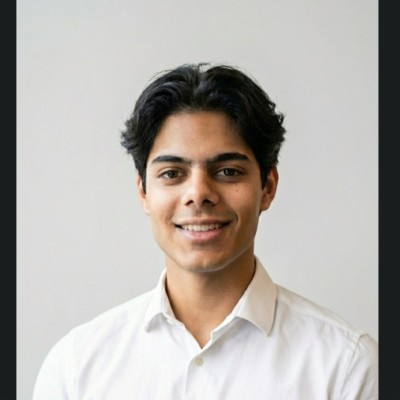
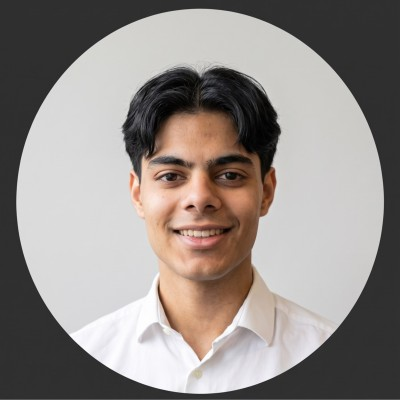
Refresh homepage examples, founder profile and feedback

diff --git a/index.html b/index.html
@@ -217,112 +217,63 @@
             </div>
         </section>
 
-        <section id="recently-added" class="px-6 lg:px-10 pb-16 bg-gray-50">
-            <div class="max-w-[1720px] mx-auto border-t border-gray-200 pt-10">
-                <div class="flex flex-col md:flex-row md:items-end md:justify-between gap-3 mb-6">
-                    <div>
-                        <p class="text-[10px] font-black uppercase tracking-[0.18em] text-blue-600">Recently Added</p>
-                        <h2 class="text-2xl md:text-3xl font-black mt-1">A few of the latest changes.</h2>
-                    </div>
-                    <p class="text-sm text-gray-500">Shortcuts to features added across the platform.</p>
-                </div>
-
-                <div class="grid grid-cols-1 md:grid-cols-3 gap-4">
-                    <a href="#top" onclick="setTimeout(() => document.getElementById('launcher-ticker').focus(), 250)" class="group rounded-2xl border border-gray-200 bg-white p-5 shadow-sm hover:border-blue-200 hover:shadow-md transition">
-                        <div class="flex items-center justify-between gap-3">
-                            <span class="text-[10px] font-black uppercase tracking-[0.16em] text-gray-400">Hub</span>
-                            <span class="text-blue-600 group-hover:translate-x-0.5 transition-transform">→</span>
-                        </div>
-                        <h3 class="mt-3 text-lg font-black text-gray-950">Company Search</h3>
-                        <p class="mt-2 text-sm leading-relaxed text-gray-500">Search Quick Launch by company name or ticker and choose the matching security.</p>
+        <section id="recently-added" aria-labelledby="explore-title" class="px-6 lg:px-10 pb-10 sm:pb-14 bg-gray-50">
+            <div class="max-w-[1720px] mx-auto border-t border-gray-200 pt-7 sm:pt-9">
+                <h2 id="explore-title" class="text-2xl md:text-3xl font-black tracking-tight text-gray-950">Try it with an example</h2>
+                <div class="mt-4 grid grid-cols-1 divide-y divide-gray-200 overflow-hidden rounded-2xl border border-gray-200 bg-white md:grid-cols-3 md:divide-x md:divide-y-0">
+                    <a href="sethistock.html?ticker=MSFT" class="block p-5 transition hover:bg-emerald-50 focus-visible:bg-emerald-50 focus-visible:outline focus-visible:outline-2 focus-visible:-outline-offset-2 focus-visible:outline-emerald-700 sm:p-6">
+                        <p class="text-sm font-bold text-emerald-700">SethiStock</p>
+                        <h3 class="mt-2 text-xl font-black tracking-tight text-gray-950">Research Microsoft</h3>
+                        <p class="mt-2 text-base leading-relaxed text-gray-600">Start with MSFT and explore its financials, valuation and operating drivers.</p>
                     </a>
-
-                    <button type="button" onclick="openCommandPalette()" class="group rounded-2xl border border-gray-200 bg-white p-5 text-left shadow-sm hover:border-blue-200 hover:shadow-md transition">
-                        <div class="flex items-center justify-between gap-3">
-                            <span class="text-[10px] font-black uppercase tracking-[0.16em] text-gray-400">Hub</span>
-                            <span class="text-blue-600 group-hover:translate-x-0.5 transition-transform">→</span>
-                        </div>
-                        <h3 class="mt-3 text-lg font-black text-gray-950">Command Palette</h3>
-                        <p class="mt-2 text-sm leading-relaxed text-gray-500">Use Ctrl or Cmd + K to jump to a tool, section or ticker.</p>
-                    </button>
-
-                    <a href="#top" class="group rounded-2xl border border-gray-200 bg-white p-5 shadow-sm hover:border-blue-200 hover:shadow-md transition">
-                        <div class="flex items-center justify-between gap-3">
-                            <span class="text-[10px] font-black uppercase tracking-[0.16em] text-gray-400">Hub</span>
-                            <span class="text-blue-600 group-hover:translate-x-0.5 transition-transform">→</span>
-                        </div>
-                        <h3 class="mt-3 text-lg font-black text-gray-950">Continue Shortcut</h3>
-                        <p class="mt-2 text-sm leading-relaxed text-gray-500">Return to the last SethiWay tool, stock or section you were using.</p>
+                    <a href="sethiportfolio.html#attribution" class="block p-5 transition hover:bg-amber-50 focus-visible:bg-amber-50 focus-visible:outline focus-visible:outline-2 focus-visible:-outline-offset-2 focus-visible:outline-amber-700 sm:p-6">
+                        <p class="text-sm font-bold text-amber-700">SethiPortfolio</p>
+                        <h3 class="mt-2 text-xl font-black tracking-tight text-gray-950">See what moved a portfolio</h3>
+                        <p class="mt-2 text-base leading-relaxed text-gray-600">Break down portfolio returns and see which holdings contributed most.</p>
+                    </a>
+                    <a href="sethiquant.html#section-var" class="block p-5 transition hover:bg-blue-50 focus-visible:bg-blue-50 focus-visible:outline focus-visible:outline-2 focus-visible:-outline-offset-2 focus-visible:outline-blue-700 sm:p-6">
+                        <p class="text-sm font-bold text-blue-700">SethiQuant</p>
+                        <h3 class="mt-2 text-xl font-black tracking-tight text-gray-950">Stress-test an allocation</h3>
+                        <p class="mt-2 text-base leading-relaxed text-gray-600">Use the Market Risk Lab to see how a portfolio might respond to a market shock.</p>
                     </a>
                 </div>
             </div>
         </section>
 
-        <section class="py-20 px-6 lg:px-10 bg-white border-t border-gray-200">
-            <div class="max-w-7xl mx-auto">
-                <div class="text-center max-w-3xl mx-auto mb-10">
-                    <p class="text-[11px] font-black uppercase tracking-[0.18em] text-blue-600">Behind SethiWay</p>
-                    <h2 class="text-3xl md:text-4xl font-black mt-2">Built from the questions I wanted to answer.</h2>
-                    <p class="mt-4 text-gray-500">SethiWay started as a set of tools for analysing markets, companies and portfolios. The maths and code sit underneath those questions.</p>
-                </div>
-                <div class="grid grid-cols-1 md:grid-cols-3 gap-6">
-                    <div class="rounded-2xl border border-gray-200 bg-gray-50 p-7">
-                        <div class="w-11 h-11 rounded-xl bg-blue-100 text-blue-700 flex items-center justify-center font-black mb-5">01</div>
-                        <h3 class="text-xl font-black">Markets & Investing</h3>
-                        <p class="mt-3 text-sm leading-relaxed text-gray-600">Fundamental, macro and portfolio analysis centred on the questions that matter before and after capital is deployed.</p>
-                    </div>
-                    <div class="rounded-2xl border border-gray-200 bg-gray-50 p-7">
-                        <div class="w-11 h-11 rounded-xl bg-gray-900 text-white flex items-center justify-center font-black mb-5">02</div>
-                        <h3 class="text-xl font-black">Quantitative Modelling</h3>
-                        <p class="mt-3 text-sm leading-relaxed text-gray-600">Statistics, optimisation, simulation, derivatives and risk models used to understand behaviour that simple headline metrics miss.</p>
-                    </div>
-                    <div class="rounded-2xl border border-gray-200 bg-gray-50 p-7">
-                        <div class="w-11 h-11 rounded-xl bg-emerald-100 text-emerald-700 flex items-center justify-center font-black mb-5">03</div>
-                        <h3 class="text-xl font-black">Software Engineering</h3>
-                        <p class="mt-3 text-sm leading-relaxed text-gray-600">Python and FastAPI data engines, interactive web interfaces and Plotly visualisation wrapped around practical financial workflows.</p>
-                    </div>
-                </div>
-            </div>
-        </section>
-
-        <section id="about" class="py-20 px-6 lg:px-10 bg-gray-50 border-t border-gray-200">
-            <div class="max-w-6xl mx-auto grid grid-cols-1 md:grid-cols-[240px_minmax(0,1fr)] gap-10 items-center">
-                <div class="w-48 h-48 md:w-60 md:h-60 mx-auto rounded-2xl overflow-hidden border border-gray-200 bg-white shadow-sm">
-                    <img src="profile.jpg" alt="Sanchit Sethi" class="w-full h-full object-cover" loading="lazy">
+        <section id="about" aria-labelledby="about-title" class="border-y border-gray-200 bg-white px-6 py-10 sm:py-14 lg:px-10">
+            <div class="mx-auto grid max-w-5xl items-center gap-6 sm:grid-cols-[180px_minmax(0,1fr)] sm:gap-10 lg:grid-cols-[220px_minmax(0,1fr)] lg:gap-14">
+                <div class="aspect-square w-36 overflow-hidden rounded-full bg-gray-100 sm:w-full">
+                    <img src="profile.jpg?v=2" alt="Sanchit Sethi" width="400" height="400" class="h-full w-full scale-[1.1] object-cover" loading="lazy" decoding="async">
                 </div>
                 <div>
-                    <p class="text-[11px] font-black uppercase tracking-[0.18em] text-blue-600">About</p>
-                    <h2 class="text-3xl md:text-4xl font-black mt-2">Hi, I'm Sanchit.</h2>
-                    <p class="mt-5 text-lg leading-relaxed text-gray-600">I study BSc MORSE at the University of Warwick and build SethiWay as a practical extension of the maths, statistics, economics and markets I am interested in.</p>
-                    <p class="mt-4 text-lg text-gray-600 leading-relaxed">The goal is simple: take financial questions that are usually spread across spreadsheets, terminals and separate models, then turn them into connected tools that are clear enough to use and technical enough to be worth building.</p>
-                    <div class="mt-6 flex flex-wrap gap-3">
-                        <a href="https://linkedin.com/in/sanchit-sethi17" target="_blank" rel="noopener noreferrer" class="inline-flex items-center px-4 py-2.5 rounded-lg bg-gray-900 text-white text-sm font-black hover:bg-blue-600 transition">LinkedIn →</a>
-                        <a href="#feedback" class="inline-flex items-center px-4 py-2.5 rounded-lg bg-white border border-gray-200 text-sm font-black hover:border-blue-300 hover:text-blue-700 transition">Send an idea →</a>
-                    </div>
+                    <h2 id="about-title" class="text-3xl font-black tracking-tight text-gray-950 md:text-4xl">Hi, I’m Sanchit.</h2>
+                    <p class="mt-3 text-base leading-relaxed text-gray-600">I study MORSE at the University of Warwick. I started SethiWay because I kept switching between spreadsheets and separate models to answer one question about a stock or portfolio.</p>
+                    <p class="mt-3 text-base leading-relaxed text-gray-600">I wanted to follow an idea from the initial research through to what it would do to a portfolio, and test how it might hold up when markets move.</p>
+                    <a href="https://linkedin.com/in/sanchit-sethi17" target="_blank" rel="noopener noreferrer" class="mt-5 inline-flex min-h-11 items-center rounded-lg border border-gray-300 px-4 text-sm font-bold text-gray-900 transition hover:border-blue-600 hover:text-blue-700 focus-visible:outline focus-visible:outline-2 focus-visible:outline-offset-2 focus-visible:outline-blue-600">Connect on LinkedIn</a>
                 </div>
             </div>
         </section>
 
-        <section id="feedback" class="py-20 px-6 lg:px-10 bg-white border-t border-gray-200">
-            <div class="max-w-5xl mx-auto">
-                <div class="text-center mb-10">
-                    <p class="text-[11px] font-black uppercase tracking-[0.18em] text-blue-600">Feedback & Collaboration</p>
-                    <h2 class="text-3xl md:text-4xl font-black mt-2">See something worth improving?</h2>
-                    <p class="mt-4 text-gray-500 max-w-2xl mx-auto">Feature ideas, bugs, model suggestions and collaboration opportunities are all useful. Send the detail directly here.</p>
+        <section id="feedback" aria-labelledby="feedback-title" class="bg-gray-50 px-6 py-10 sm:py-14 lg:px-10">
+            <div class="mx-auto grid max-w-5xl gap-6 rounded-2xl bg-gray-950 p-5 text-white sm:p-8 lg:grid-cols-[minmax(0,1fr)_minmax(0,1.6fr)] lg:gap-12">
+                <div>
+                    <h2 id="feedback-title" class="text-2xl font-black tracking-tight md:text-3xl">Help improve SethiWay</h2>
+                    <p class="mt-3 text-base leading-relaxed text-gray-300">Found a bug, have a feature idea or want to work together? Send me a note.</p>
                 </div>
-                <div class="rounded-2xl bg-gray-950 text-white p-7 md:p-10 shadow-xl">
-                    <form id="idea-form" class="space-y-5 max-w-3xl mx-auto">
+                <div>
+                    <form id="idea-form" class="space-y-4">
                         <input type="hidden" name="access_key" value="cd2ce7dc-37bf-4573-9c3b-680d8ccf17aa">
                         <input type="hidden" name="subject" value="New SethiWay feedback submission">
                         <input type="checkbox" name="botcheck" style="display:none">
                         <div class="grid grid-cols-1 md:grid-cols-2 gap-4">
-                            <div><label for="name" class="block text-xs font-black uppercase tracking-wider text-gray-400 mb-2">Name</label><input id="name" name="name" type="text" required class="w-full px-4 py-3 rounded-xl bg-gray-900 border border-gray-700 text-white outline-none focus:border-blue-500" placeholder="Your name"></div>
-                            <div><label for="email" class="block text-xs font-black uppercase tracking-wider text-gray-400 mb-2">Email</label><input id="email" name="email" type="email" required class="w-full px-4 py-3 rounded-xl bg-gray-900 border border-gray-700 text-white outline-none focus:border-blue-500" placeholder="you@example.com"></div>
+                            <div><label for="name" class="block text-xs font-black uppercase tracking-wider text-gray-400 mb-2">Name</label><input id="name" name="name" type="text" required class="w-full px-4 py-3 rounded-xl bg-gray-900 border border-gray-700 text-white outline-none focus:border-blue-500" autocomplete="name"></div>
+                            <div><label for="email" class="block text-xs font-black uppercase tracking-wider text-gray-400 mb-2">Email</label><input id="email" name="email" type="email" required class="w-full px-4 py-3 rounded-xl bg-gray-900 border border-gray-700 text-white outline-none focus:border-blue-500" autocomplete="email"></div>
                         </div>
-                        <div><label for="message" class="block text-xs font-black uppercase tracking-wider text-gray-400 mb-2">Message</label><textarea id="message" name="message" required rows="5" class="w-full px-4 py-3 rounded-xl bg-gray-900 border border-gray-700 text-white outline-none focus:border-blue-500 resize-y" placeholder="What should SethiWay improve or build next?"></textarea></div>
-                        <button type="submit" class="w-full py-3.5 rounded-xl bg-blue-600 text-white font-black hover:bg-blue-500 transition">Submit Feedback</button>
+                        <div><label for="message" class="block text-xs font-black uppercase tracking-wider text-gray-400 mb-2">Message</label><textarea id="message" name="message" required rows="4" class="w-full px-4 py-3 rounded-xl bg-gray-900 border border-gray-700 text-white outline-none focus:border-blue-500 resize-y" placeholder="Tell me what you have in mind"></textarea></div>
+                        <button type="submit" class="min-h-11 w-full rounded-xl bg-blue-600 px-5 py-2.5 text-sm font-bold text-white transition hover:bg-blue-700 focus-visible:outline focus-visible:outline-2 focus-visible:outline-offset-2 focus-visible:outline-blue-400 disabled:opacity-70 sm:w-auto">Send feedback</button>
+                        <p id="feedback-error" role="alert" class="hidden text-sm text-red-300">Couldn’t send your message. Please try again.</p>
                     </form>
-                    <div id="success-message" class="hidden max-w-3xl mx-auto text-center py-8">
+                    <div id="success-message" tabindex="-1" class="hidden py-4">
                         <div class="w-12 h-12 rounded-full bg-emerald-500/15 text-emerald-400 flex items-center justify-center mx-auto text-xl font-black">✓</div>
                         <h3 class="text-xl font-black mt-4">Message sent.</h3>
                         <p class="text-gray-400 mt-2">Thanks. I’ll take a look.</p>
@@ -791,11 +742,13 @@
 
     const form = document.getElementById('idea-form');
     const successMessage = document.getElementById('success-message');
+    const feedbackError = document.getElementById('feedback-error');
 
     form.addEventListener('submit', async event => {
         event.preventDefault();
         const button = form.querySelector('button[type="submit"]');
         const original = button.textContent;
+        feedbackError.classList.add('hidden');
         button.disabled = true;
         button.textContent = 'Sending…';
         try {
@@ -809,14 +762,14 @@
             if (!response.ok || result.success === false) throw new Error(result.message || 'Submission failed');
             form.classList.add('hidden');
             successMessage.classList.remove('hidden');
+            successMessage.focus();
         } catch (error) {
             console.error('SethiWay feedback submission failed:', error);
-            button.textContent = 'Could not send · Try again';
+            feedbackError.classList.remove('hidden');
             button.disabled = false;
-            setTimeout(() => { button.textContent = original; }, 2500);
-            return;
+        } finally {
+            button.textContent = original;
         }
-        button.textContent = original;
     });
 </script>
 </body>
